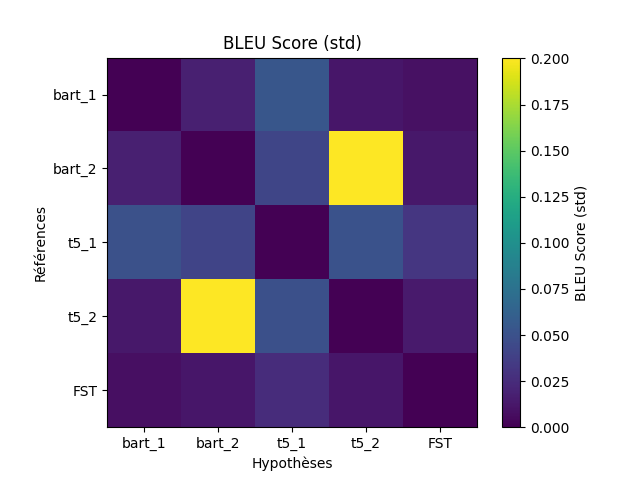
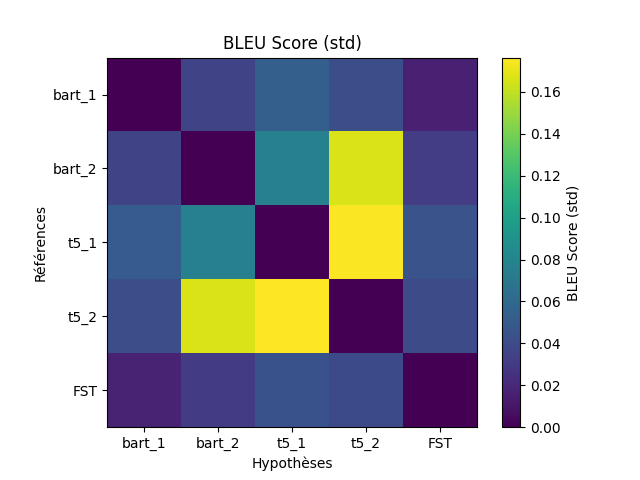
rouge n-grammes && multiple tests

diff --git a/src/charts/rouge_n_grammes.py b/src/charts/rouge_n_grammes.py
@@ -1,0 +1,102 @@
+import csv
+import random
+
+import matplotlib.pyplot as plt
+import numpy as np
+from nltk.translate.bleu_score import sentence_bleu, SmoothingFunction
+from nltk.translate.meteor_score import single_meteor_score
+from rouge_score import rouge_scorer
+import data_parser
+import pandas as pd
+
+
+def tokenize_phrase(phrase):
+    tokens = []
+    current_token = ""
+    for char in phrase:
+        if char in ("#", "&"):
+            char = " "
+        current_token += char
+    tokens = current_token.split()
+    return tokens
+
+
+def evaluate_metrics(reference, hypothesis):
+    reference_tokens = tokenize_phrase(reference)
+    hypothesis_tokens = tokenize_phrase(hypothesis)
+
+    reference_bigrams = [' '.join(reference_tokens[i:i+4]) for i in range(len(reference_tokens)-1)]
+    hypothesis_bigrams = [' '.join(hypothesis_tokens[i:i+4]) for i in range(len(hypothesis_tokens)-1)]
+
+    reference_bigrams_str = ' '.join(reference_bigrams)
+    hypothesis_bigrams_str = ' '.join(hypothesis_bigrams)
+
+    rouge_scorer_instance = rouge_scorer.RougeScorer(['rougeL'], use_stemmer=True)
+    rouge_scores = rouge_scorer_instance.score(reference_bigrams_str, hypothesis_bigrams_str)
+    rouge_score = rouge_scores['rougeL'].fmeasure
+
+    return rouge_score
+
+
+def evaluate_phrases(createur, idInterpretation_id):
+    with open('data/captions.csv', 'r', encoding='utf-8') as file:
+        csv_reader = csv.DictReader(file)
+        for row in csv_reader:
+            if row['createur'] == createur and row['idInterpretation_id'] == str(idInterpretation_id):
+                return row['caption']
+
+
+def create_matrix(interpretationId):
+    rouge = np.zeros((5, 5))
+
+    creators = ['bart_1', 'bart_2', 't5_1', 't5_2', 'FST']
+
+    for i in range(5):
+        for j in range(5):
+            reference = evaluate_phrases(creators[i], interpretationId)
+            hypothesis = evaluate_phrases(creators[j], interpretationId)
+            rouge[i, j] = evaluate_metrics(reference, hypothesis)
+
+    return rouge
+
+
+def plot_matrix(matrix, title, filename):
+    plt.imshow(matrix, cmap='viridis', interpolation='nearest')
+    plt.colorbar(label=title)
+    plt.xticks(np.arange(5), ['bart_1', 'bart_2', 't5_1', 't5_2', 'FST'])
+    plt.yticks(np.arange(5), ['bart_1', 'bart_2', 't5_1', 't5_2', 'FST'])
+    plt.xlabel('Hypothèses')
+    plt.ylabel('Références')
+    plt.title(title)
+    plt.savefig(filename)
+    plt.close()
+
+def get_random_interpretation_id():
+    interpretation_ids = []
+    with open('data/captions.csv', 'r', encoding='utf-8') as file:
+        csv_reader = csv.DictReader(file)
+        for row in csv_reader:
+            interpretation_ids.append(row['idInterpretation_id'])
+    return random.choice(interpretation_ids)
+
+def means_and_std(nb_test):
+    scores_rouge = np.zeros((5, 5, nb_test))
+
+    for test in range(nb_test):
+
+        interpretation_id = get_random_interpretation_id()
+        print(interpretation_id)
+        rouge = create_matrix(interpretation_id)
+        scores_rouge[:, :, test] = rouge
+
+    mean_rouge = np.mean(scores_rouge, axis=2)
+    std_rouge = np.std(scores_rouge, axis=2)
+
+    return (mean_rouge, std_rouge)
+
+rouge = means_and_std(1000)
+
+plot_matrix(rouge[0], 'ROUGE Score (mean)', 'plot/n_grammes/rouge_score_mean_4.png')
+plot_matrix(rouge[1], 'ROUGE Score (std)', 'plot/n_grammes/rouge_score_std_4.png')
+
+

diff --git a/src/charts/metric.py b/src/charts/metric.py
@@ -96,6 +96,31 @@ def means_and_std(nb_test):
     scores_meteor = np.zeros((5, 5, nb_test))
 
     for test in range(nb_test):
+        if((test == 5) or (test == 100) or (test == 250) or (test == 500) or (test == 750) or (test == 1000)):
+            print("loading"+str(test))
+            bleu, rouge, meteor = create_matrix(interpretation_id)
+            scores_bleu[:, :, test] = bleu
+            scores_rouge[:, :, test] = rouge
+            scores_meteor[:, :, test] = meteor
+
+            mean_bleu = np.mean(scores_bleu, axis=2)
+            std_bleu = np.std(scores_bleu, axis=2)
+            mean_rouge = np.mean(scores_rouge, axis=2)
+            std_rouge = np.std(scores_rouge, axis=2)
+            mean_meteor = np.mean(scores_meteor, axis=2)
+            std_meteor = np.std(scores_meteor, axis=2)
+
+            bleu, rouge, meteor = (mean_bleu, std_bleu), (mean_rouge, std_rouge), (mean_meteor, std_meteor)
+
+            plot_matrix(bleu[0], 'BLEU Score (mean)', 'plot/stat/bleu_score_mean_'+str(test)+'.png')
+            plot_matrix(bleu[1], 'BLEU Score (std)', 'plot/stat/bleu_score_std_'+str(test)+'.png')
+
+            plot_matrix(rouge[0], 'ROUGE Score (mean)', 'plot/stat/rouge_score_mean_'+str(test)+'.png')
+            plot_matrix(rouge[1], 'ROUGE Score (std)', 'plot/stat/rouge_score_std_'+str(test)+'.png')
+
+            plot_matrix(meteor[0], 'METEOR Score (mean)', 'plot/stat/meteor_score_mean_'+str(test)+'.png')
+            plot_matrix(meteor[1], 'METEOR Score (std)', 'plot/stat/meteor_score_std_'+str(test)+'.png')
+
         interpretation_id = get_random_interpretation_id()
         print(interpretation_id)
         bleu, rouge, meteor = create_matrix(interpretation_id)
@@ -112,7 +137,7 @@ def means_and_std(nb_test):
 
     return (mean_bleu, std_bleu), (mean_rouge, std_rouge), (mean_meteor, std_meteor)
 
-bleu, rouge, meteor = means_and_std(10)
+bleu, rouge, meteor = means_and_std(1010)
 
 plot_matrix(bleu[0], 'BLEU Score (mean)', 'plot/bleu_score_mean.png')
 plot_matrix(bleu[1], 'BLEU Score (std)', 'plot/bleu_score_std.png')
